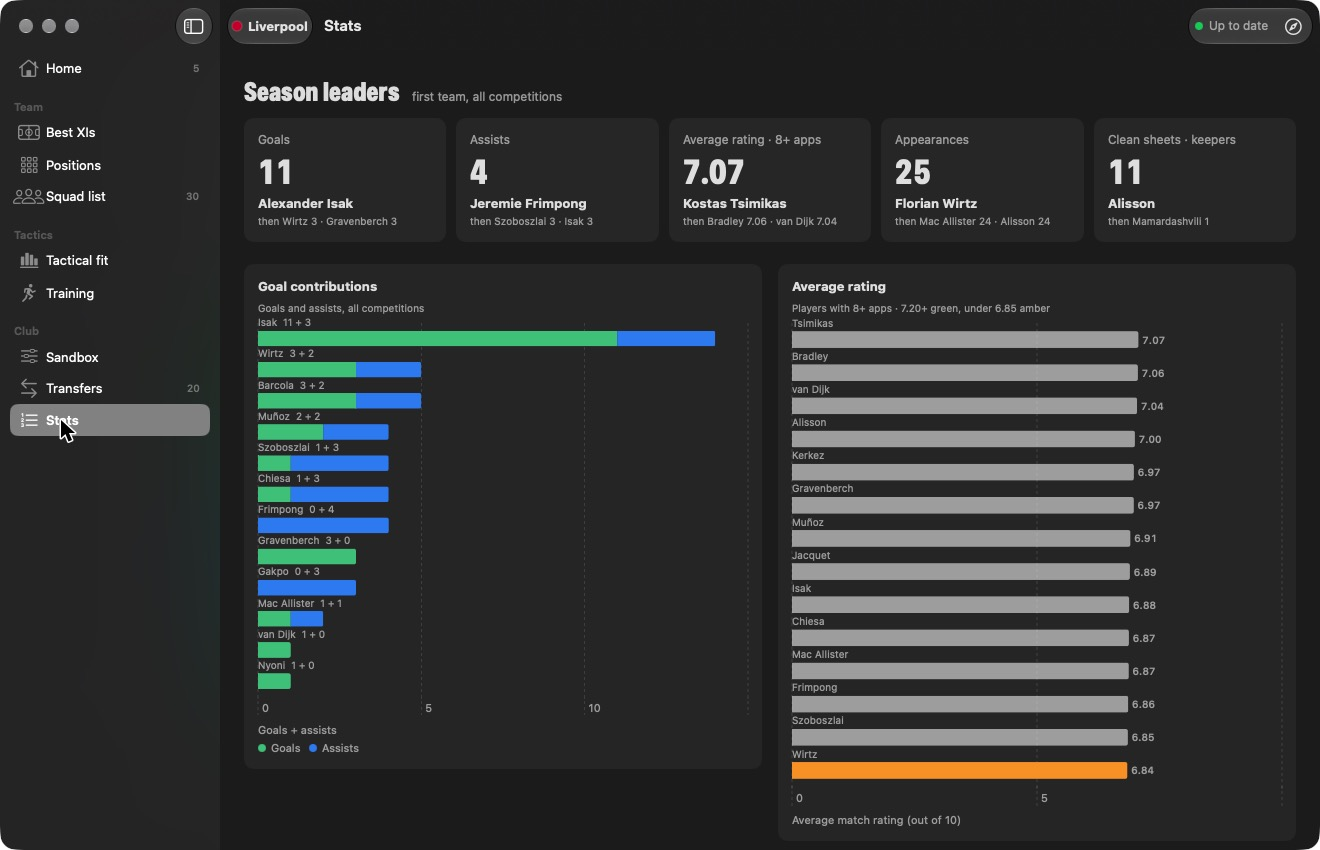
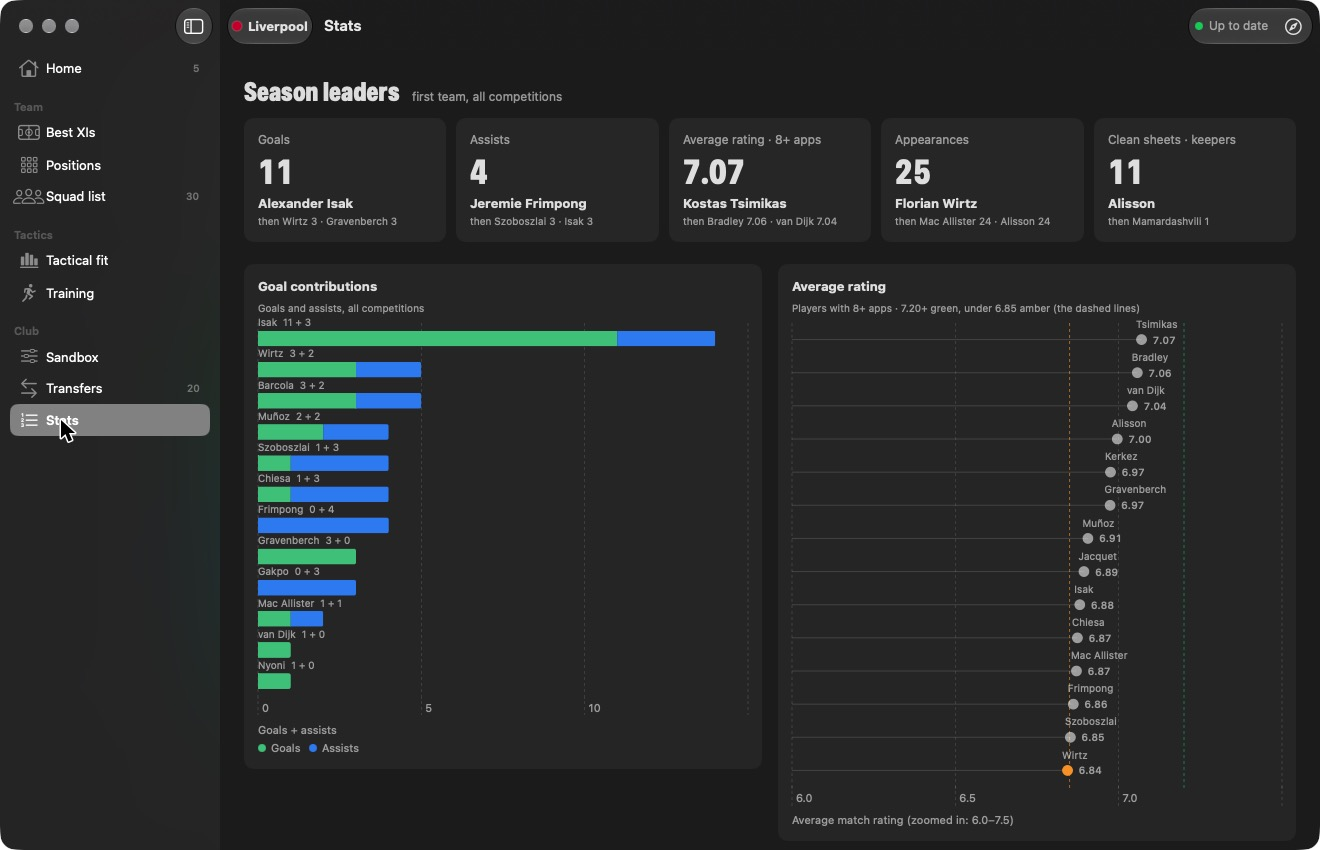
Mac app: rating dots on a zoomed scale, clearer training text, timeline by year
- Average rating: dots on a 6.0-7.5 scale (bars would have to start at 0), dashed
  lines at the 6.85 and 7.20 colour thresholds
- "Already natural: no position work" instead of "Natural: none" (web app too)
- Training "Used this season" shows full schedule names, full name on hover
- Transfers timeline: one row per year with a year heading, so Jan 2028 can't read
  as coming before May 2027
- Fresh screenshots

Changed region(s): [[0.5902, 0.3365, 0.9008, 0.9176], [0.6833, 0.9482, 0.7765, 0.9788]]

diff --git a/mac/SquadReport/Views/StatsView.swift b/mac/SquadReport/Views/StatsView.swift
@@ -188,23 +188,35 @@ private struct RatingsChart: View {
         let rated = rows.filter { $0.avg >= 0 && $0.apps >= floor }.sorted { $0.avg > $1.avg }.prefix(14)
         VStack(alignment: .leading, spacing: 8) {
             Text("Average rating").font(.headline)
-            Text("Players with \(floor)+ apps · 7.20+ green, under 6.85 amber").font(.caption).foregroundStyle(.secondary)
+            Text("Players with \(floor)+ apps · 7.20+ green, under 6.85 amber (the dashed lines)").font(.caption).foregroundStyle(.secondary)
             if rated.isEmpty {
                 Text("Nobody has enough games yet.").foregroundStyle(.secondary).frame(height: 200)
             } else {
-                Chart(Array(rated)) { r in
-                    BarMark(x: .value("Average rating", r.avg), y: .value("Player", surname(r.name)), height: .ratio(0.5))
-                        .foregroundStyle(r.avg >= StatRow.high ? Palette.transferIn : r.avg < StatRow.low ? Palette.verdict("amber") : Color.secondary)
-                        .annotation(position: .trailing) {
-                            Text(String(format: "%.2f", r.avg)).font(.caption2).monospacedDigit().foregroundStyle(.secondary)
-                        }
-                        .annotation(position: .top, alignment: .leading, spacing: 2) {
-                            Text(surname(r.name)).font(.caption).foregroundStyle(.secondary)
-                        }
+                // dots, not bars: bars must start at 0, and from 0 every rating looks the same
+                let lo = min(6.0, (rated.map(\.avg).min() ?? 6.0) - 0.1)
+                let hi = max(7.5, (rated.map(\.avg).max() ?? 7.5) + 0.1)
+                Chart {
+                    RuleMark(x: .value("Amber below", StatRow.low))
+                        .lineStyle(StrokeStyle(lineWidth: 1, dash: [3, 3])).foregroundStyle(Palette.verdict("amber").opacity(0.6))
+                    RuleMark(x: .value("Green from", StatRow.high))
+                        .lineStyle(StrokeStyle(lineWidth: 1, dash: [3, 3])).foregroundStyle(Palette.transferIn.opacity(0.6))
+                    ForEach(Array(rated)) { r in
+                        RuleMark(xStart: .value("From", lo), xEnd: .value("Average rating", r.avg), y: .value("Player", surname(r.name)))
+                            .lineStyle(StrokeStyle(lineWidth: 1)).foregroundStyle(Color.secondary.opacity(0.25))
+                        PointMark(x: .value("Average rating", r.avg), y: .value("Player", surname(r.name)))
+                            .symbolSize(90)
+                            .foregroundStyle(r.avg >= StatRow.high ? Palette.transferIn : r.avg < StatRow.low ? Palette.verdict("amber") : Color.secondary)
+                            .annotation(position: .trailing, spacing: 6) {
+                                Text(String(format: "%.2f", r.avg)).font(.caption2).monospacedDigit().foregroundStyle(.secondary)
+                            }
+                            .annotation(position: .top, alignment: .leading, spacing: 4) {
+                                Text(surname(r.name)).font(.caption).foregroundStyle(.secondary)
+                            }
+                    }
                 }
-                .chartXScale(domain: 0...10)
+                .chartXScale(domain: lo...hi)
                 .chartYAxis(.hidden)
-                .chartXAxisLabel("Average match rating (out of 10)")
+                .chartXAxisLabel("Average match rating (zoomed in: \(String(format: "%.1f", lo))–\(String(format: "%.1f", hi)))")
                 .frame(height: CGFloat(max(160, rated.count * 36)))
             }
         }

diff --git a/mac/SquadReport/Views/TransfersView.swift b/mac/SquadReport/Views/TransfersView.swift
@@ -122,8 +122,16 @@ private struct ComingUp: View {
             if months.isEmpty {
                 Text("Nothing arranged, and no loans or contracts ending in the next year.").foregroundStyle(.secondary)
             }
+            // one row per year, so January 2028 can never read as if it came before May 2027
+            ForEach(Self.years(months), id: \.year) { group in
+                HStack(alignment: .firstTextBaseline, spacing: 8) {
+                    Text(String(group.year)).font(.system(size: 26, weight: .heavy).width(.condensed))
+                    Rectangle().fill(.quaternary).frame(height: 1)
+                }
+                .padding(.top, 6)
+                .accessibilityAddTraits(.isHeader)
             LazyVGrid(columns: [GridItem(.adaptive(minimum: 230), spacing: 14, alignment: .top)], spacing: 18) {
-                ForEach(months) { month in
+                ForEach(group.months) { month in
                     VStack(alignment: .leading, spacing: 8) {
                         ZStack(alignment: .leading) {
                             Rectangle().fill(.quaternary).frame(height: 2)
@@ -137,7 +145,17 @@ private struct ComingUp: View {
                     }
                 }
             }
+            }
         }
+    }
+
+    private struct Year { let year: Int; let months: [TransferTimeline.Month] }
+
+    private static func years(_ months: [TransferTimeline.Month]) -> [Year] {
+        var cal = Calendar(identifier: .gregorian)
+        cal.timeZone = TimeZone(identifier: "UTC")!
+        let byYear = Dictionary(grouping: months) { cal.component(.year, from: $0.start) }
+        return byYear.keys.sorted().map { Year(year: $0, months: byYear[$0]!) }
     }
 
     private func event(_ e: TimelineEvent) -> some View {

diff --git a/mac/SquadReport/Views/TrainingView.swift b/mac/SquadReport/Views/TrainingView.swift
@@ -89,7 +89,7 @@ private struct TeamSchedule: View {
                     let most = Double(used.first?.value ?? 1)
                     ForEach(used, id: \.key) { name, n in
                         HStack(spacing: 8) {
-                            Text(name).lineLimit(1).frame(width: 200, alignment: .leading)
+                            Text(name).lineLimit(1).truncationMode(.middle).frame(minWidth: 280, alignment: .leading).help(name)
                             Capsule().fill(Color(hex: "#D0102E")).frame(width: max(4, 80 * Double(n) / most), height: 6)
                             Text("\(n)").monospacedDigit().foregroundStyle(.secondary)
                         }
@@ -264,7 +264,7 @@ private struct Plans: View {
                         .font(.callout)
                         VStack(alignment: .leading, spacing: 2) {
                             if plan.positionWork.isEmpty {
-                                Text("Natural: none").foregroundStyle(Palette.transferIn)
+                                Text("Already natural: no position work").foregroundStyle(Palette.transferIn)
                             }
                             ForEach(plan.positionWork, id: \.self) { w in
                                 Text("\(w.code) \(w.phase): \(w.word) · \(w.how)").fixedSize(horizontal: false, vertical: true)

diff --git a/fm27_squad_report.py b/fm27_squad_report.py
@@ -2354,7 +2354,7 @@ def training_page(R) -> str:
         if not plan:
             continue
         pw = "".join(f'<div class="pw"><b>{E(w["code"])}</b> {E(w["phase"])} — {E(w["word"])} ({w["fam"]}/20) · '
-                     f'<span class="acc">{E(w["how"])}</span></div>' for w in plan["pos_work"]) or '<span class="okk">Natural — none</span>'
+                     f'<span class="acc">{E(w["how"])}</span></div>' for w in plan["pos_work"]) or '<span class="okk">Already natural: no position work</span>'
         if plan["focus"]:
             attr, v = plan["focus"]
             focus = f'<span class="fz">{E(attr_label(attr))} <b>{v}</b></span>'
